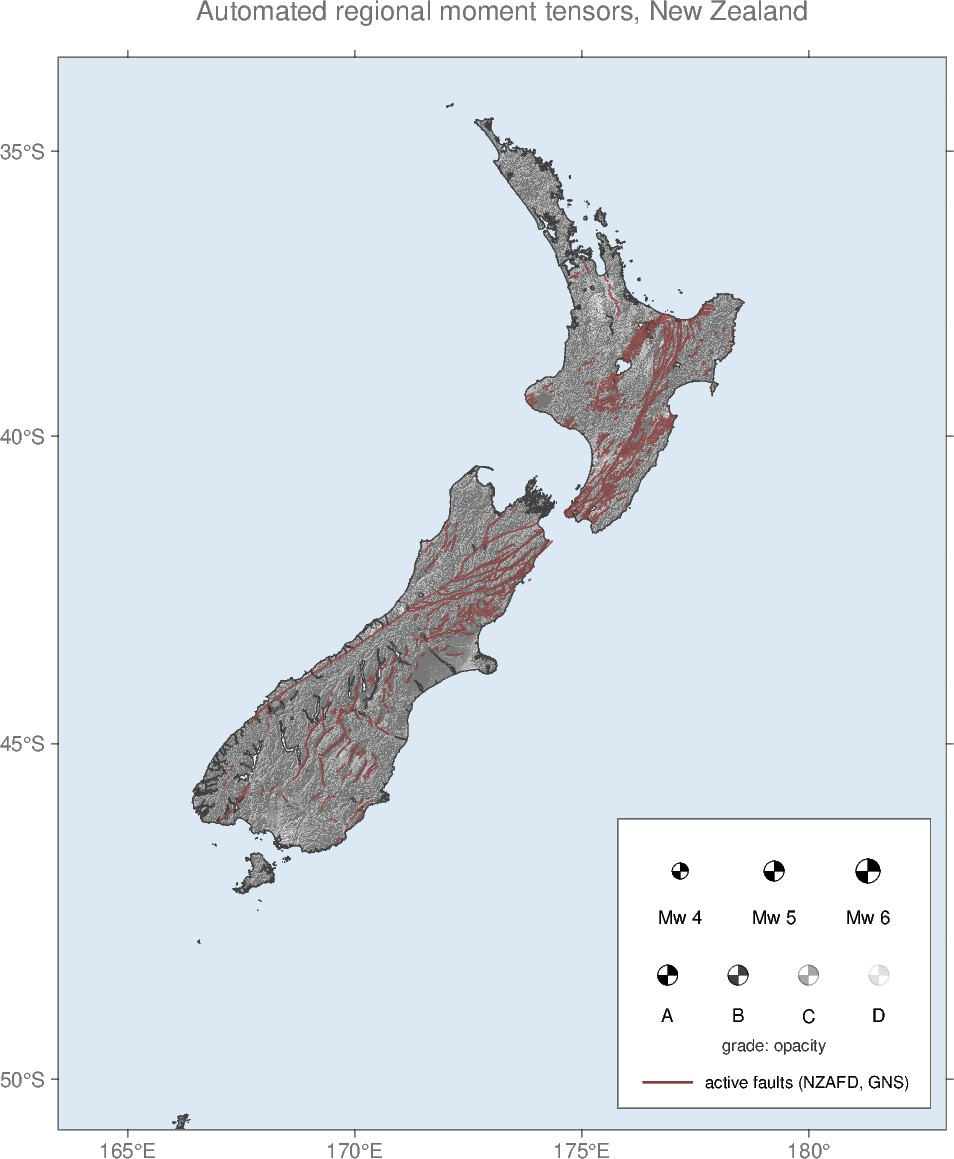
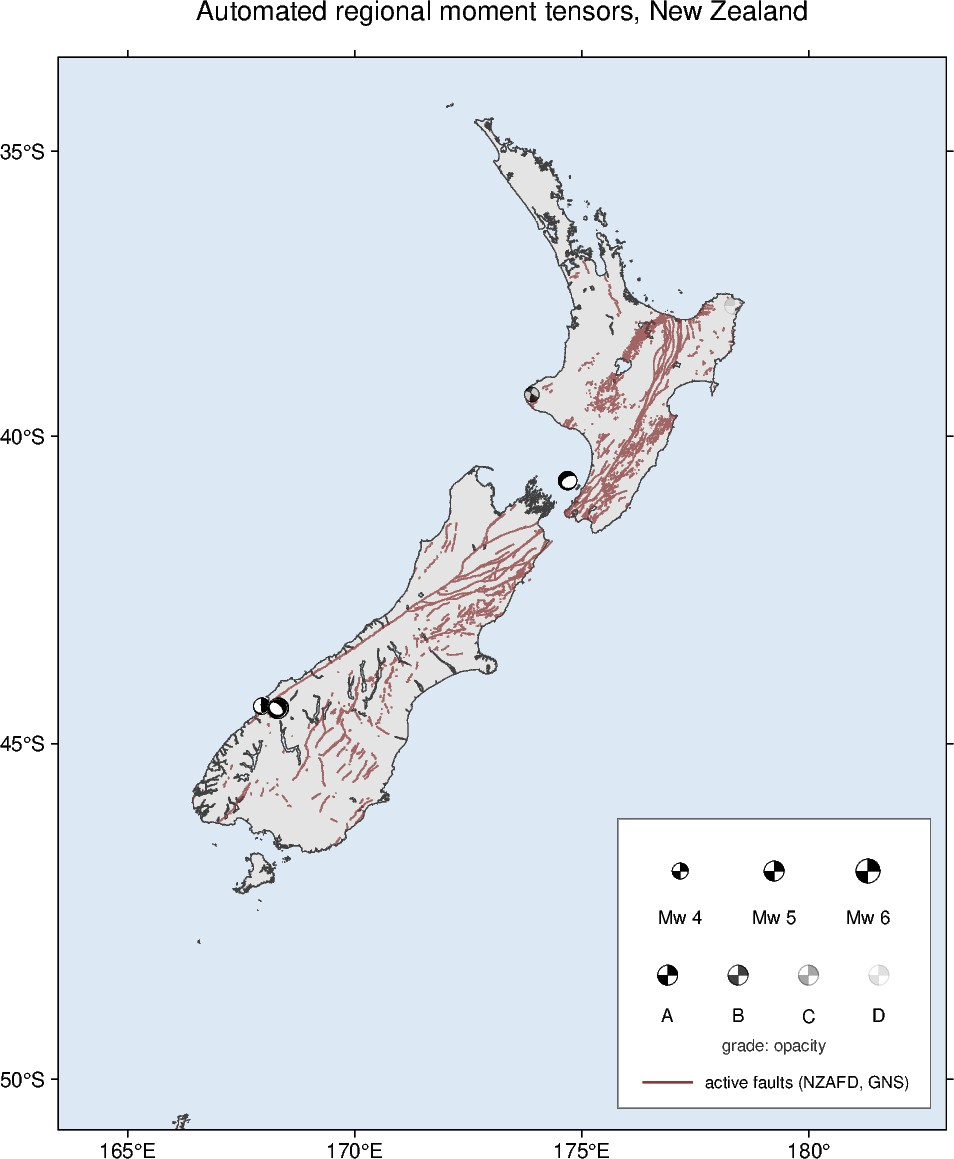
overview map: plain grey land, no relief

diff --git a/src/figure.py b/src/figure.py
@@ -364,22 +364,17 @@ def make_overview_map(events_dir: Path, out_path: Path) -> Path:
                "mrt", "mrf", "mtf", "exponent"]
 
     region = [163.5, 183.0, -50.7, -33.3]
-    # grey hillshade only (no elevation colours): 15 arc-second relief,
-    # gradient-shaded, drawn with a grey ramp and lightened over white
-    grid = pygmt.datasets.load_earth_relief(resolution="15s", region=region)
-    shade = pygmt.grdgradient(grid=grid, radiance=[315, 45], normalize="e0.7")
-
+    # plain grey land and a neutral blue sea: no relief, so the beachballs
+    # and faults stay readable as the archive grows
     fig = pygmt.Figure()
     pygmt.config(FONT="10p", FONT_TITLE="13p,Helvetica", MAP_FRAME_TYPE="plain",
                  FORMAT_GEO_MAP="dddF", MAP_GRID_PEN_PRIMARY="0.25p,gray55,.",
                  MAP_TITLE_OFFSET="0.15c")
-    pygmt.makecpt(cmap="gray", series=[-1.0, 1.0])
-    fig.grdimage(grid=shade, region=region, projection="M15c", cmap=True,
-                 transparency=45,
-                 frame=["WSen+tAutomated regional moment tensors, New Zealand",
-                        "xa5g5", "ya5g5"])
-    sea = "#dce9f5"
-    fig.coast(water=sea, lakes=sea, shorelines="0.35p,gray25",
+    sea, land = "#dce9f5", "#e4e4e4"
+    fig.basemap(region=region, projection="M15c",
+                frame=["WSen+tAutomated regional moment tensors, New Zealand",
+                       "xa5g5", "ya5g5"])
+    fig.coast(land=land, water=sea, lakes=sea, shorelines="0.35p,gray25",
               resolution="h")
 
     # active faults as one multi-segment line (NaN breaks the segments)
